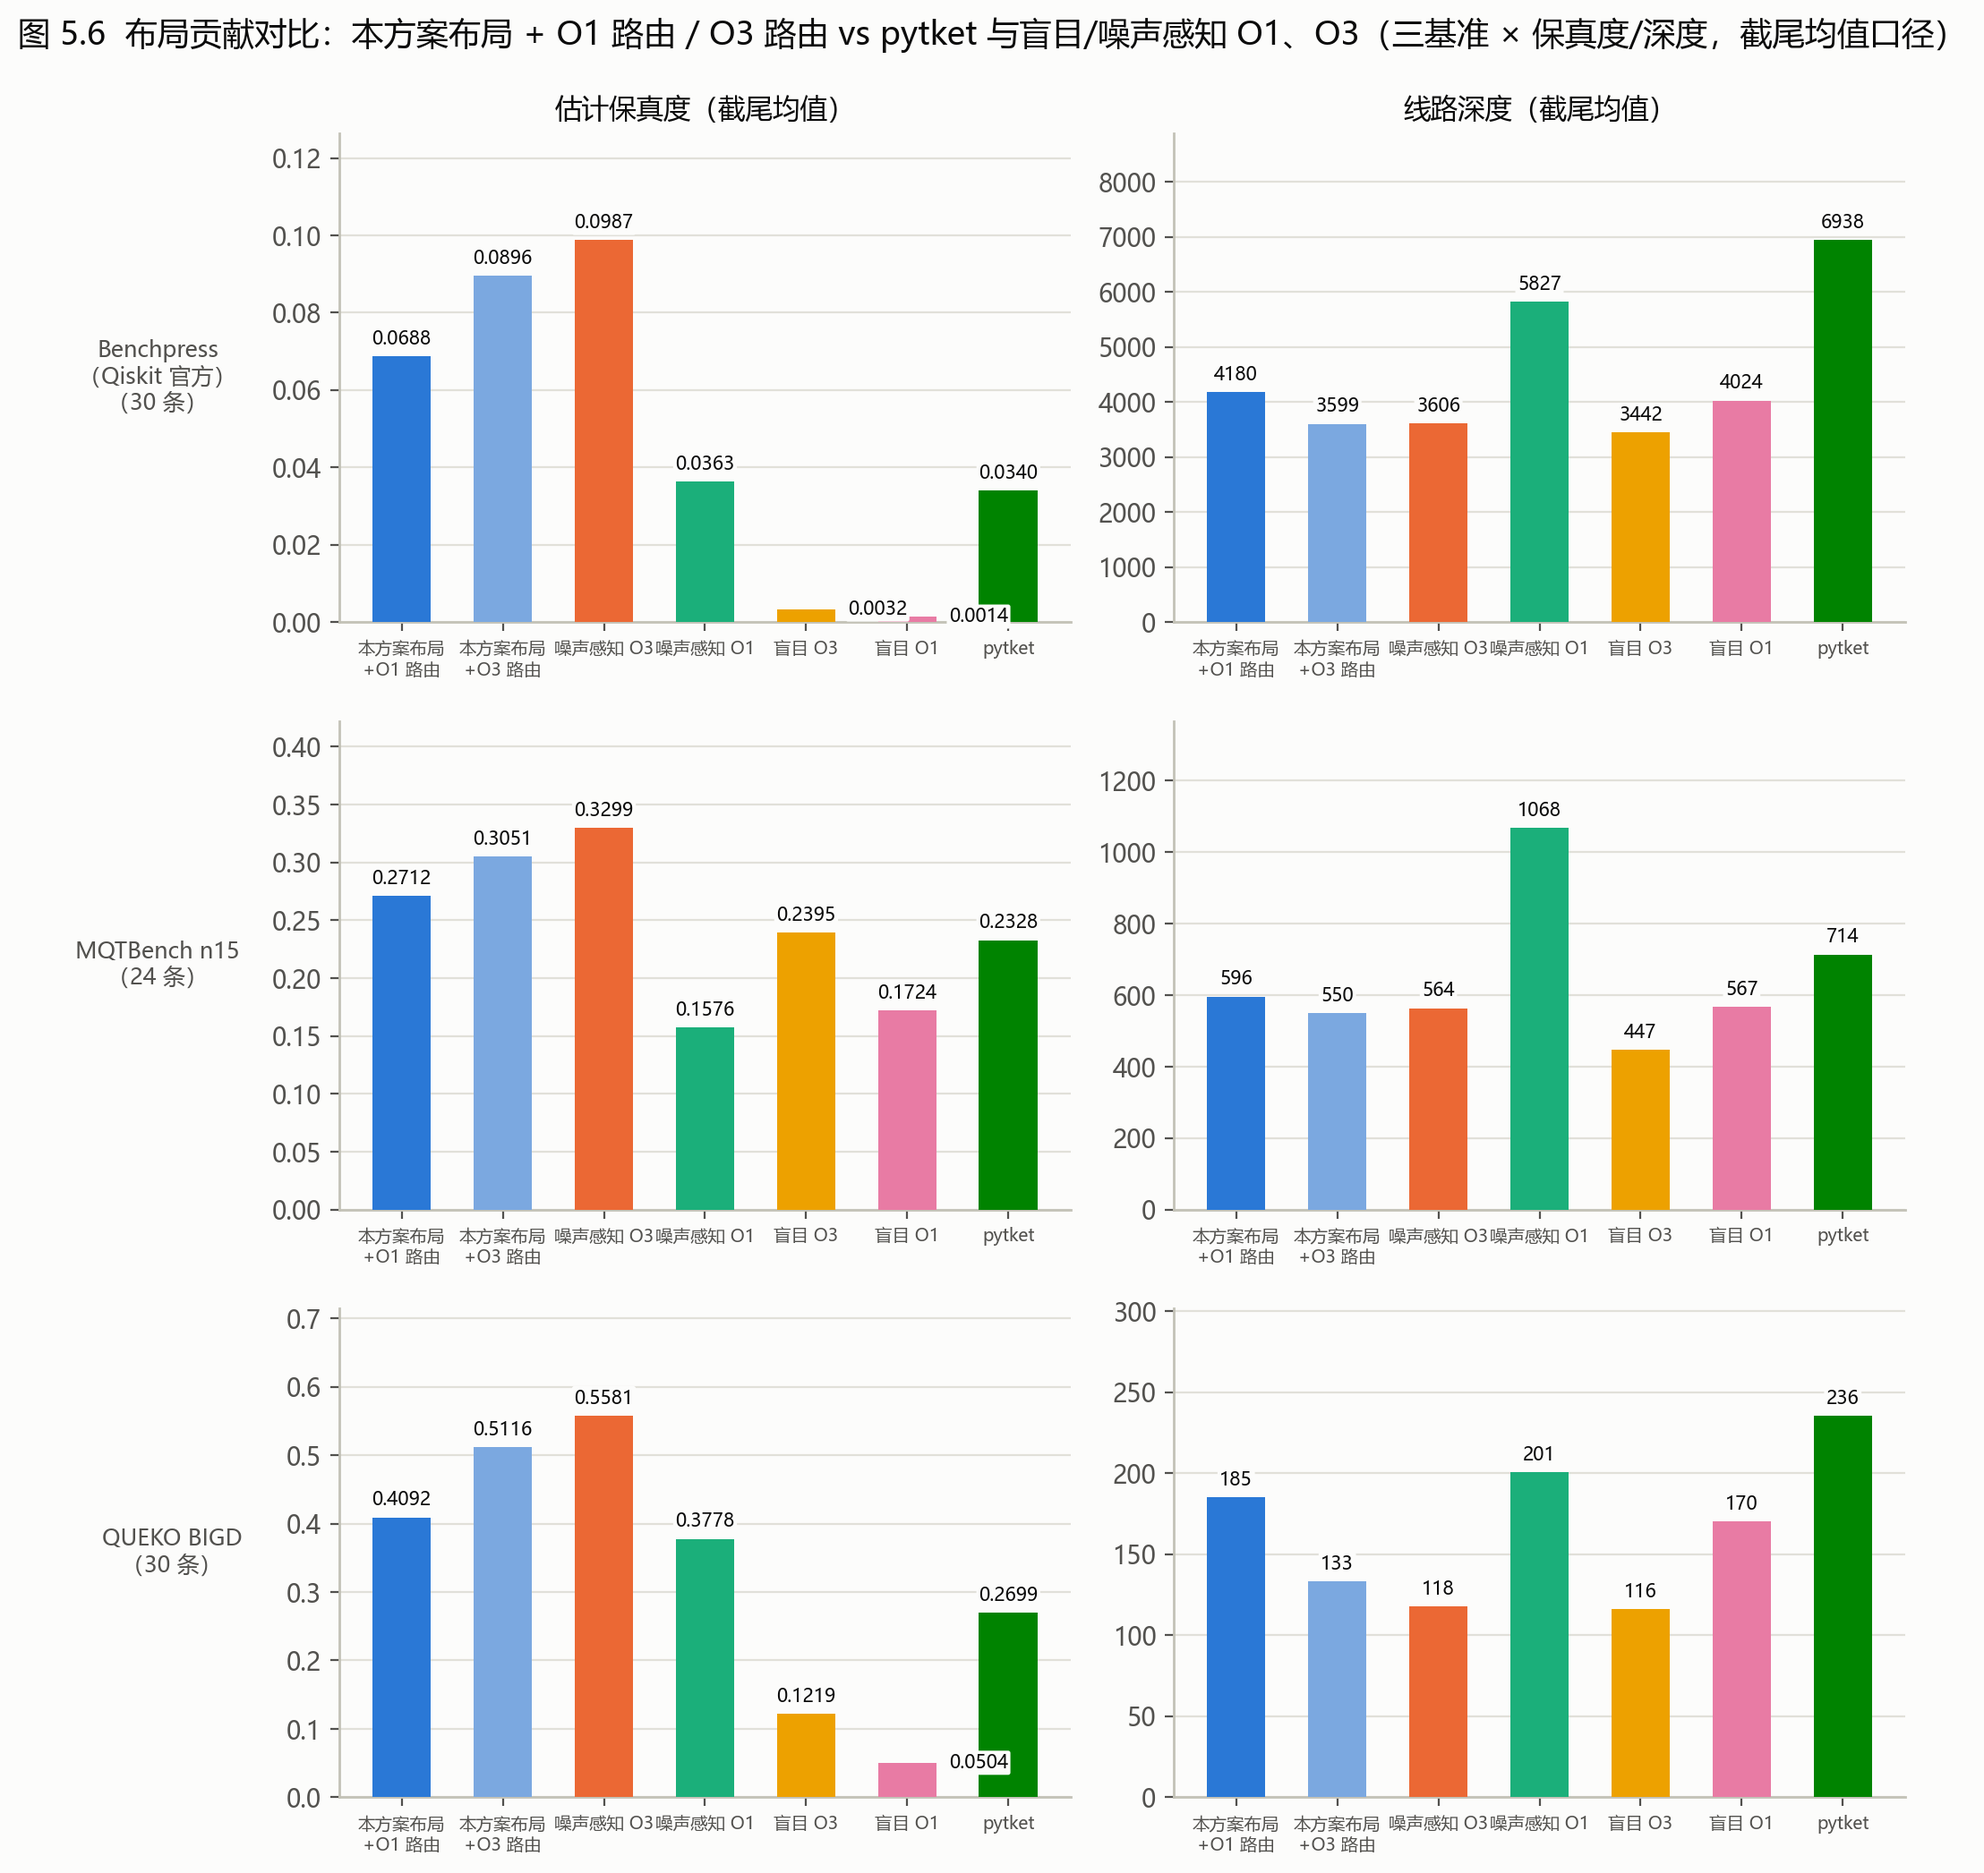
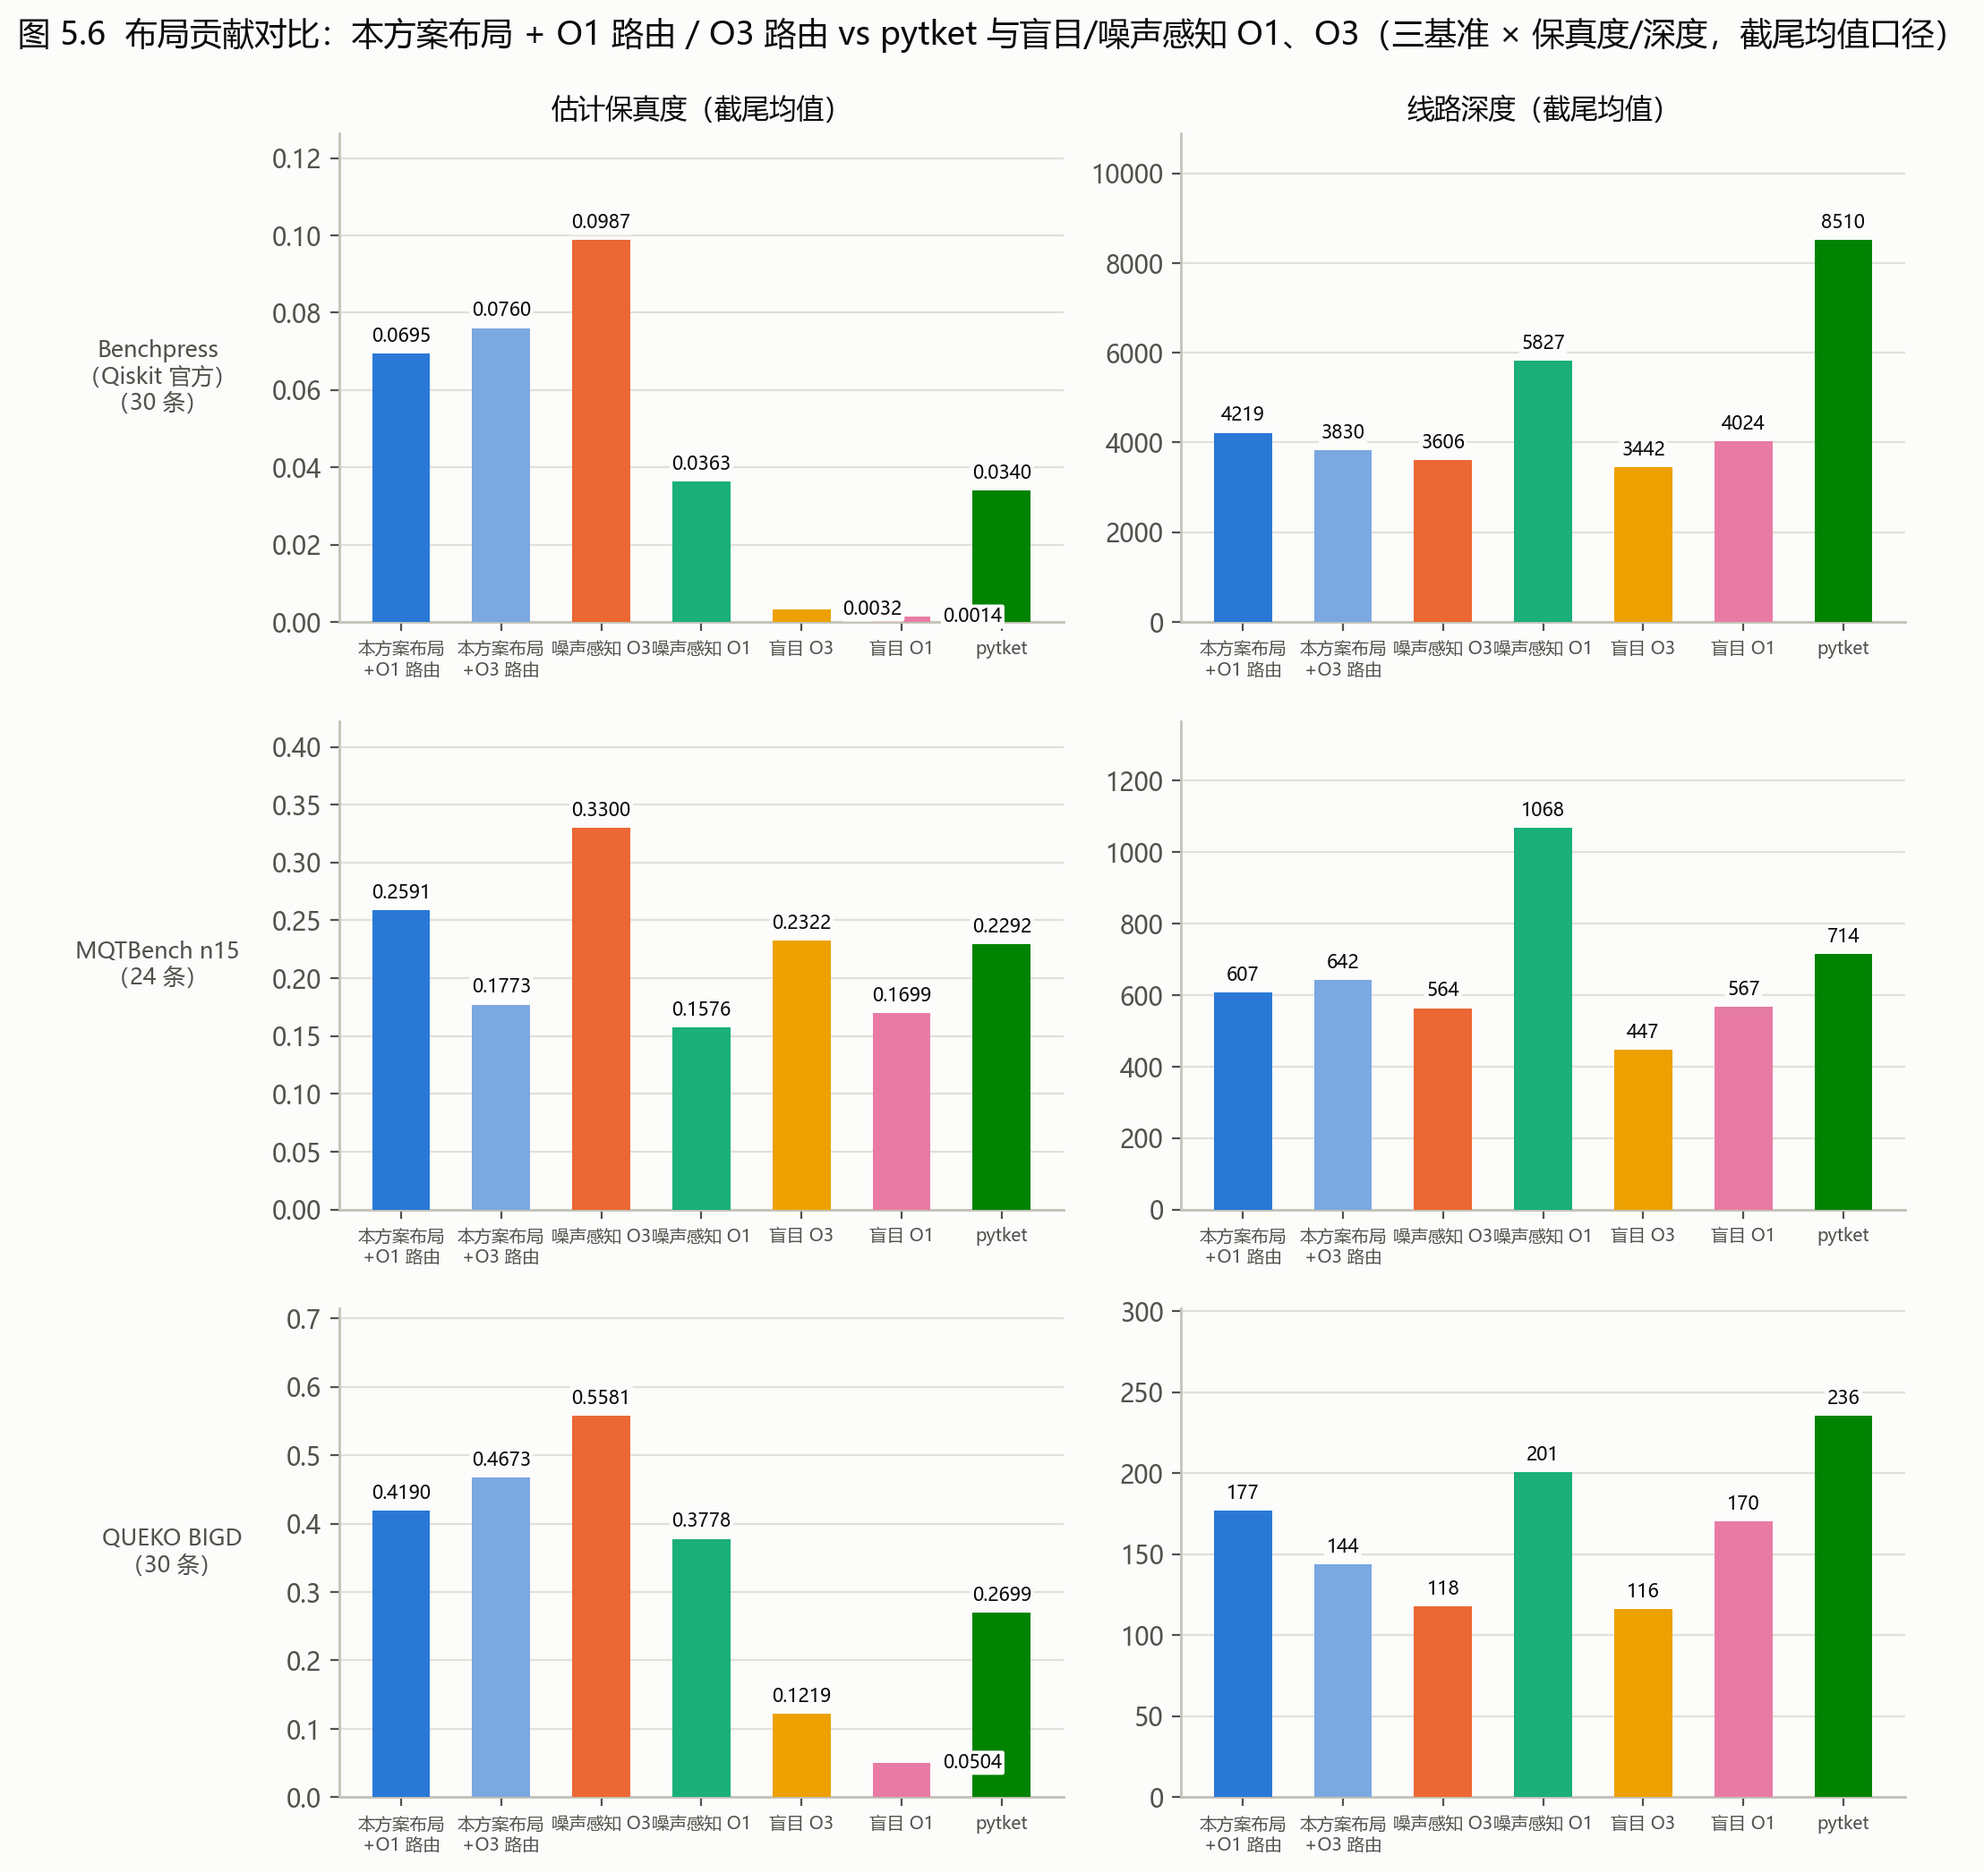
报告实验重跑：v8 分层表生成 + 全部图表按 v8 数据重绘
- scripts/make_v8_report.py：QTrial 用 v8 行、基线在 v8 同线路子集重算
- make_report_figures 优先读 tables/final_report_v8/report.md（回退 v4）
- 图3/4/6/7/8/9/10 与 thesis 图5.6 已按新数据重绘

diff --git a/scripts/make_v8_report.py b/scripts/make_v8_report.py
@@ -1,0 +1,106 @@
+# -*- coding: utf-8 -*-
+"""生成 v8 分层报告表 tables/final_report_v8/report.md（供出图脚本读取）。
+
+QTrial 列 = v8 行数据（y 修复 + mid-circuit 剔除后）；
+基线列（感知 O1/O3、盲目 O1/O3、pytket）读 tables/final_report 旧行，
+但只统计 v8 同线路子集，保证同集对比。
+
+输出格式与 tables/final_report/report.md 一致。
+"""
+from __future__ import annotations
+
+import json
+import statistics
+from pathlib import Path
+
+V8 = Path("tables/final_report_v8")
+OLD = Path("tables/final_report")
+TITLES = {"small": ("≤10 比特", "≤10"),
+          "medium": ("11-50 比特", "11-50"),
+          "large": ("51-105 比特", "51-105")}
+METHODS = [("QTrial", "qt"), ("感知O3", "aw_o3"), ("感知O1", "aw_o1"),
+           ("盲目O3", "b_o3"), ("盲目O1", "b_o1"), ("pytket", "tket")]
+
+
+def load(p: Path) -> dict:
+    out = {}
+    if not p.exists():
+        return out
+    for line in p.read_text(encoding="utf-8").splitlines():
+        if line.strip():
+            r = json.loads(line)
+            out[r["circuit"]] = r
+    return out
+
+
+def trimmed(vals):
+    vals = sorted(vals)
+    if not vals:
+        return None
+    k = max(1, int(len(vals) * 0.1))
+    return (statistics.mean(vals[k:len(vals) - k])
+            if 2 * k < len(vals) else statistics.mean(vals))
+
+
+def stat(rows, prefix, key):
+    vals = [r[f"{prefix}_{key}"] for r in rows
+            if r.get(f"{prefix}_{key}") is not None]
+    if not vals:
+        return None
+    return (statistics.mean(vals), trimmed(vals), statistics.median(vals))
+
+
+def fmt(t):
+    return "-" if not t else f"{t[0]:.4f}/{t[1]:.4f}/{t[2]:.4f}"
+
+
+def main():
+    lines = ["# 最终方案分层性能报告 v8（天衍-287，105 比特）\n\n",
+             "QTrial = v8 管线（自研 VW 合成 + VF2++ + 帧类型化）；"
+             "基线列读旧表但在 v8 同线路子集上重算；统计：均值/截尾(去10%)/中位数。\n"]
+    for bucket, (title, key_prefix) in TITLES.items():
+        v8 = list(load(V8 / f"{bucket}_fidelity_rows.jsonl").values())
+        ok = [r for r in v8 if r.get("qt_fidelity") is not None]
+        old = load(OLD / f"{bucket}_fidelity_rows.jsonl")
+        names = {r["circuit"] for r in ok}
+        merged = []
+        for r in ok:
+            row = dict(r)
+            o = old.get(r["circuit"], {})
+            for k, v in o.items():
+                row.setdefault(k, v)
+            merged.append(row)
+        n_err = len(v8) - len(ok)
+        lines.append(f"\n## {title} · 规则=fidelity（{len(ok)} 条完成，"
+                     f"{n_err} 条错误）\n\n")
+        lines.append("| 指标（均值/截尾/中位） | QTrial | 感知O3 | 感知O1 "
+                     "| 盲目O3 | 盲目O1 | pytket |\n")
+        lines.append("|---|---|---|---|---|---|---|\n")
+        for label, key in (("SWAP 数", "swaps"), ("深度", "depth"),
+                           ("2Q 深度", "twoq_depth"),
+                           ("估计保真度", "fidelity")):
+            cells = []
+            for _, prefix in METHODS:
+                cells.append(fmt(stat(merged, prefix, key)))
+            lines.append(f"| {label} | " + " | ".join(cells) + " |\n")
+        # 胜场
+        wins = {}
+        for label, prefix in (("感知O3", "aw_o3"), ("pytket", "tket"),
+                              ("盲目O1", "b_o1")):
+            w = sum(1 for r in merged
+                    if r.get("qt_fidelity") is not None
+                    and r.get(f"{prefix}_fidelity") is not None
+                    and r["qt_fidelity"] > r[f"{prefix}_fidelity"])
+            n = sum(1 for r in merged
+                    if r.get(f"{prefix}_fidelity") is not None)
+            wins[label] = (w, n)
+        lines.append(
+            f"\nQTrial 保真度胜场（{len(ok)} 条）：vs 感知O3 "
+            f"**{wins['感知O3'][0]}**、vs pytket **{wins['pytket'][0]}**、"
+            f"vs 盲目O1 **{wins['盲目O1'][0]}**\n")
+    (V8 / "report.md").write_text("".join(lines), encoding="utf-8")
+    print("written", V8 / "report.md")
+
+
+if __name__ == "__main__":
+    main()

diff --git a/scripts/make_report_figures.py b/scripts/make_report_figures.py
@@ -119,7 +119,11 @@ def load_final_report():
     必须用定稿表，不能用 jsonl 现场重算。
     """
     out = {}
-    text = open("tables/final_report/report.md", encoding="utf-8").read()
+    # 2026-11-13：优先使用 v8 分层表（y 修复 + mid-circuit 剔除后）；
+    # 不存在时回退 v4 定稿表。
+    v8_report = "tables/final_report_v8/report.md"
+    path = v8_report if Path(v8_report).exists() else "tables/final_report/report.md"
+    text = open(path, encoding="utf-8").read()
     sections = re.split(r"\n## ", text)
     strata_map = {"≤10": "≤10 比特", "11-50": "11-50 比特", "51-105": "51-105 比特"}
     wins = {"感知O3": 0, "pytket": 0, "盲目O1": 0}

diff --git a/tables/final_report_v8/report.md b/tables/final_report_v8/report.md
@@ -1,0 +1,36 @@
+# 最终方案分层性能报告 v8（天衍-287，105 比特）
+
+QTrial = v8 管线（自研 VW 合成 + VF2++ + 帧类型化）；基线列读旧表但在 v8 同线路子集上重算；统计：均值/截尾(去10%)/中位数。
+
+## ≤10 比特 · 规则=fidelity（127 条完成，2 条错误）
+
+| 指标（均值/截尾/中位） | QTrial | 感知O3 | 感知O1 | 盲目O3 | 盲目O1 | pytket |
+|---|---|---|---|---|---|---|
+| SWAP 数 | 8.9606/3.9612/1.0000 | 0.0000/0.0000/0.0000 | 0.0000/0.0000/0.0000 | 0.0000/0.0000/0.0000 | 0.0000/0.0000/0.0000 | 8.0275/2.9438/0.0000 |
+| 深度 | 374.0394/99.5534/72.0000 | 411.0952/101.1863/73.5000 | 887.0794/250.4314/177.5000 | 400.1825/92.9412/64.5000 | 608.6667/134.2353/103.5000 | 687.3945/130.1798/85.0000 |
+| 2Q 深度 | 145.3150/31.3010/18.0000 | 123.5079/26.3333/16.0000 | 148.9365/33.6275/23.0000 | 123.8492/26.3922/16.0000 | 147.5476/33.9118/23.0000 | 162.1560/29.8090/16.0000 |
+| 估计保真度 | 0.7324/0.7738/0.8472 | 0.7576/0.7990/0.8895 | 0.5662/0.5849/0.6188 | 0.4977/0.4984/0.5906 | 0.4456/0.4351/0.4427 | 0.6571/0.6904/0.7801 |
+
+QTrial 保真度胜场（127 条）：vs 感知O3 **17**、vs pytket **81**、vs 盲目O1 **111**
+
+## 11-50 比特 · 规则=fidelity（254 条完成，5 条错误）
+
+| 指标（均值/截尾/中位） | QTrial | 感知O3 | 感知O1 | 盲目O3 | 盲目O1 | pytket |
+|---|---|---|---|---|---|---|
+| SWAP 数 | 465.0906/213.5882/104.0000 | 0.0000/0.0000/0.0000 | 0.0000/0.0000/0.0000 | 0.0000/0.0000/0.0000 | 0.0000/0.0000/0.0000 | 455.9509/254.1389/120.5000 |
+| 深度 | 2772.1299/1053.9755/749.0000 | 2689.0000/961.8227/718.0000 | 5262.1897/1914.4778/1365.0000 | 2539.0040/887.2069/679.0000 | 3110.0198/1171.5172/918.0000 | 2947.8080/1424.7833/1138.0000 |
+| 2Q 深度 | 979.1299/372.6814/279.0000 | 830.1265/294.5961/222.0000 | 915.9565/342.6946/256.0000 | 832.0395/295.6601/221.0000 | 930.4822/347.9360/258.0000 | 702.1786/343.6889/276.0000 |
+| 估计保真度 | 0.1446/0.0958/0.0221 | 0.1617/0.1094/0.0316 | 0.0985/0.0490/0.0031 | 0.0588/0.0208/0.0000 | 0.0459/0.0127/0.0000 | 0.1053/0.0545/0.0005 |
+
+QTrial 保真度胜场（254 条）：vs 感知O3 **75**、vs pytket **204**、vs 盲目O1 **251**
+
+## 51-105 比特 · 规则=fidelity（199 条完成，0 条错误）
+
+| 指标（均值/截尾/中位） | QTrial | 感知O3 | 感知O1 | 盲目O3 | 盲目O1 | pytket |
+|---|---|---|---|---|---|---|
+| SWAP 数 | 3872.1859/2985.6894/1979.0000 | 0.0000/0.0000/0.0000 | 0.0000/0.0000/0.0000 | 0.0000/0.0000/0.0000 | 0.0000/0.0000/0.0000 | 4284.1888/3174.9937/1922.0000 |
+| 深度 | 8207.8291/6765.3292/4646.0000 | 6814.4472/5499.9317/3558.0000 | 16733.3869/12973.5217/6720.0000 | 6461.9095/5151.1925/3188.0000 | 8034.3769/6717.0124/5365.0000 | 12435.9796/9947.7848/6141.0000 |
+| 2Q 深度 | 3030.5628/2486.5342/1717.0000 | 2263.4673/1780.7640/1150.0000 | 2545.7889/2117.9938/1624.0000 | 2270.9548/1788.7391/1154.0000 | 2579.8995/2117.4658/1585.0000 | 3025.1480/2404.7532/1514.5000 |
+| 估计保真度 | 0.0028/0.0000/0.0000 | 0.0209/0.0002/0.0000 | 0.0110/0.0000/0.0000 | 0.0139/0.0001/0.0000 | 0.0102/0.0000/0.0000 | 0.0110/0.0000/0.0000 |
+
+QTrial 保真度胜场（199 条）：vs 感知O3 **38**、vs pytket **184**、vs 盲目O1 **169**
